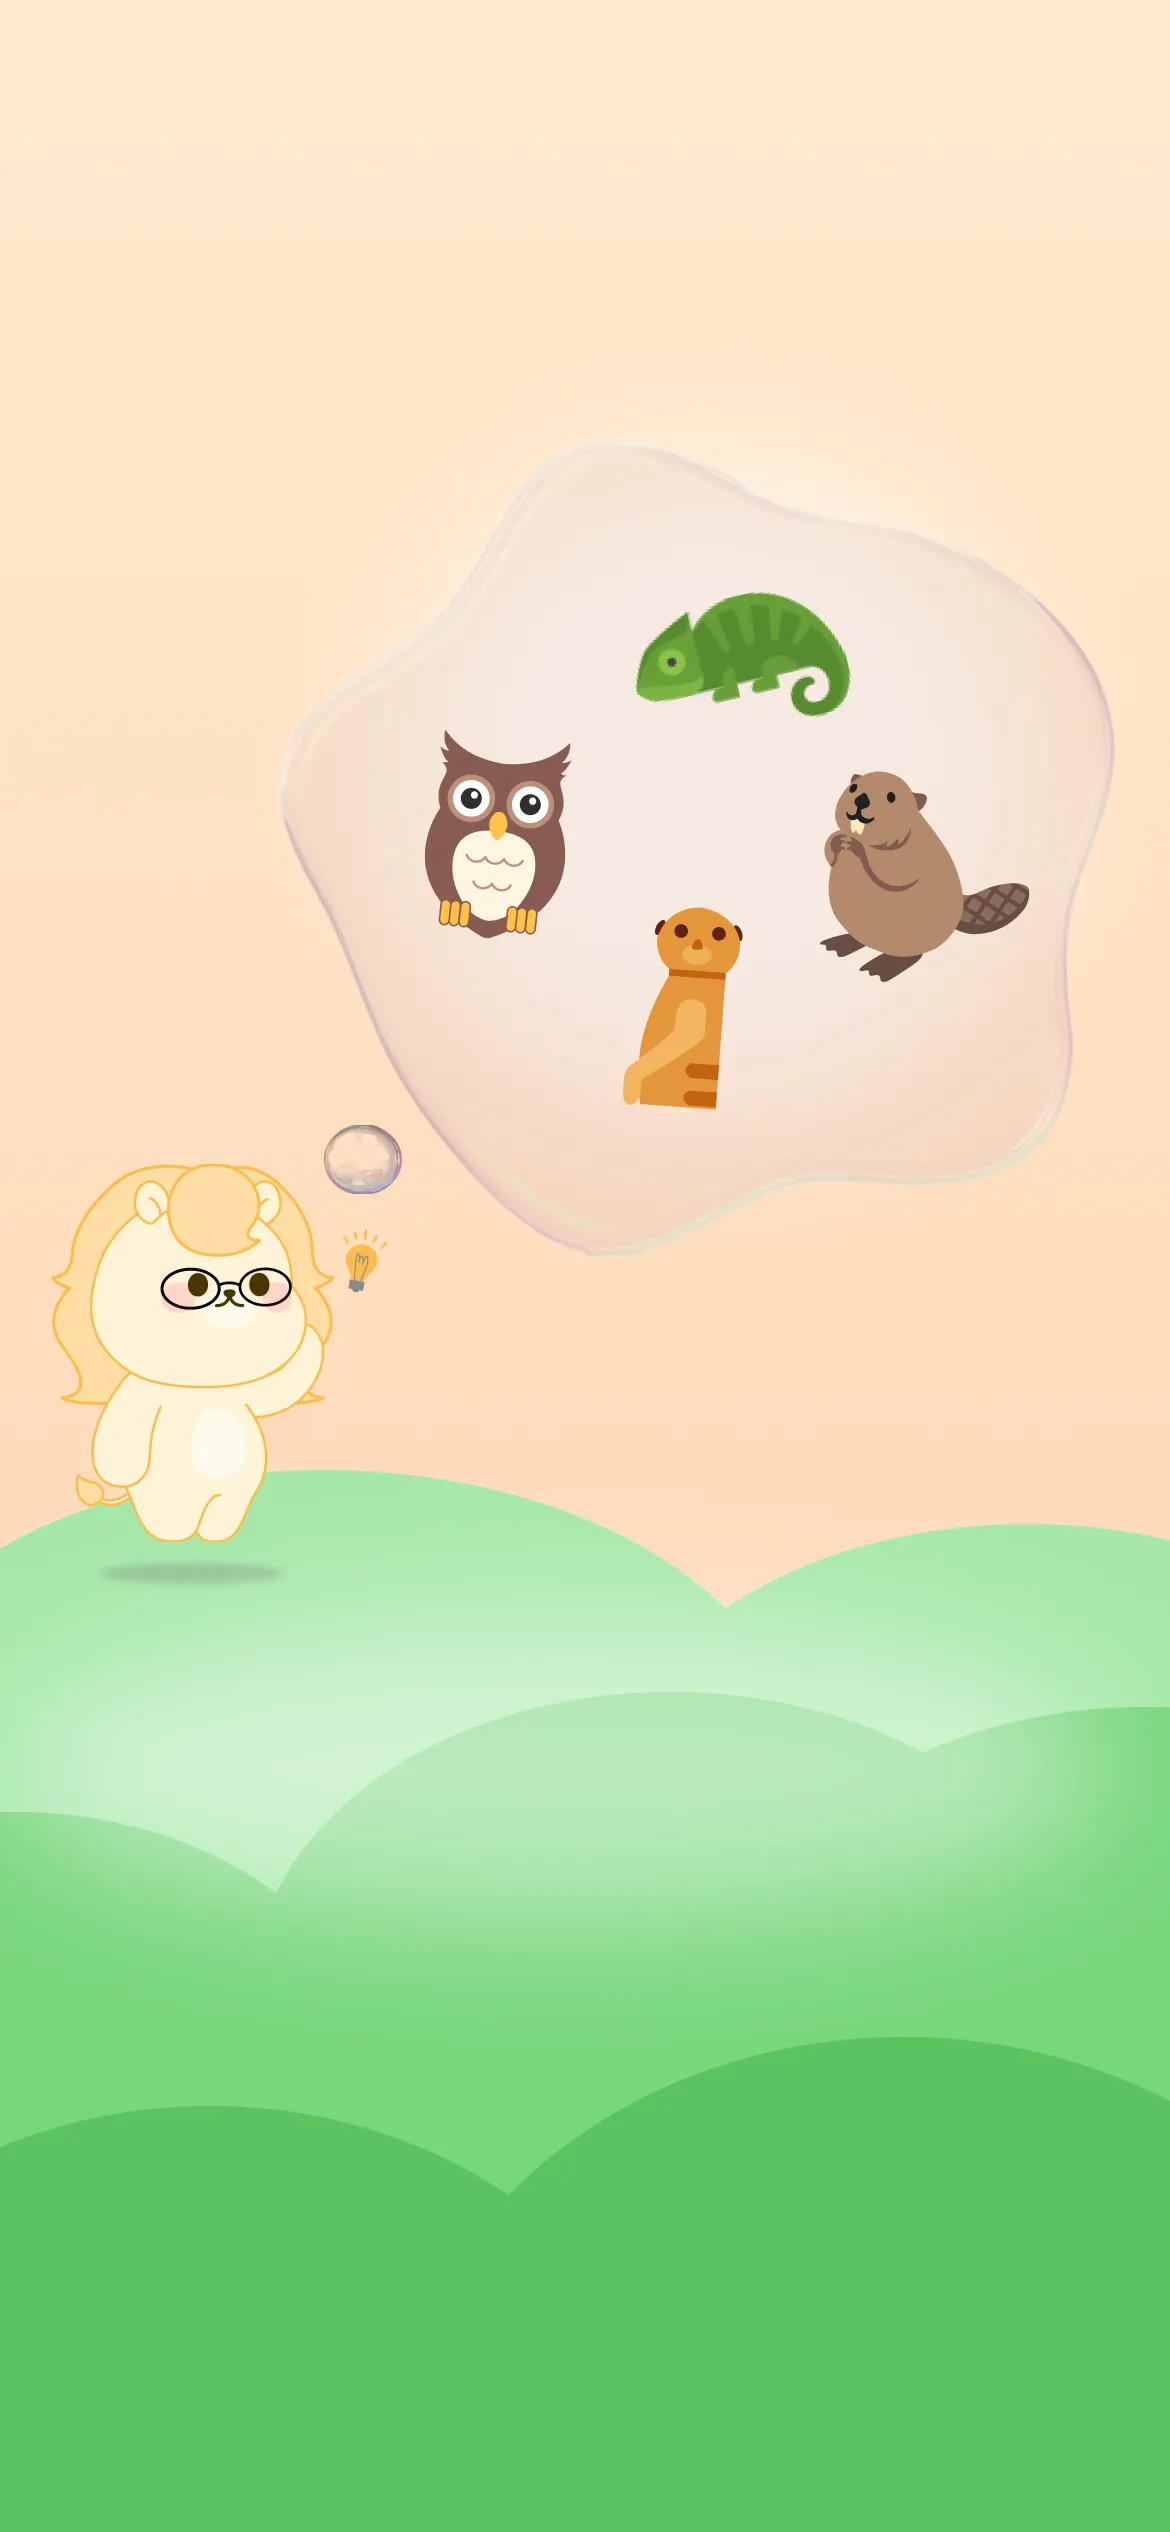
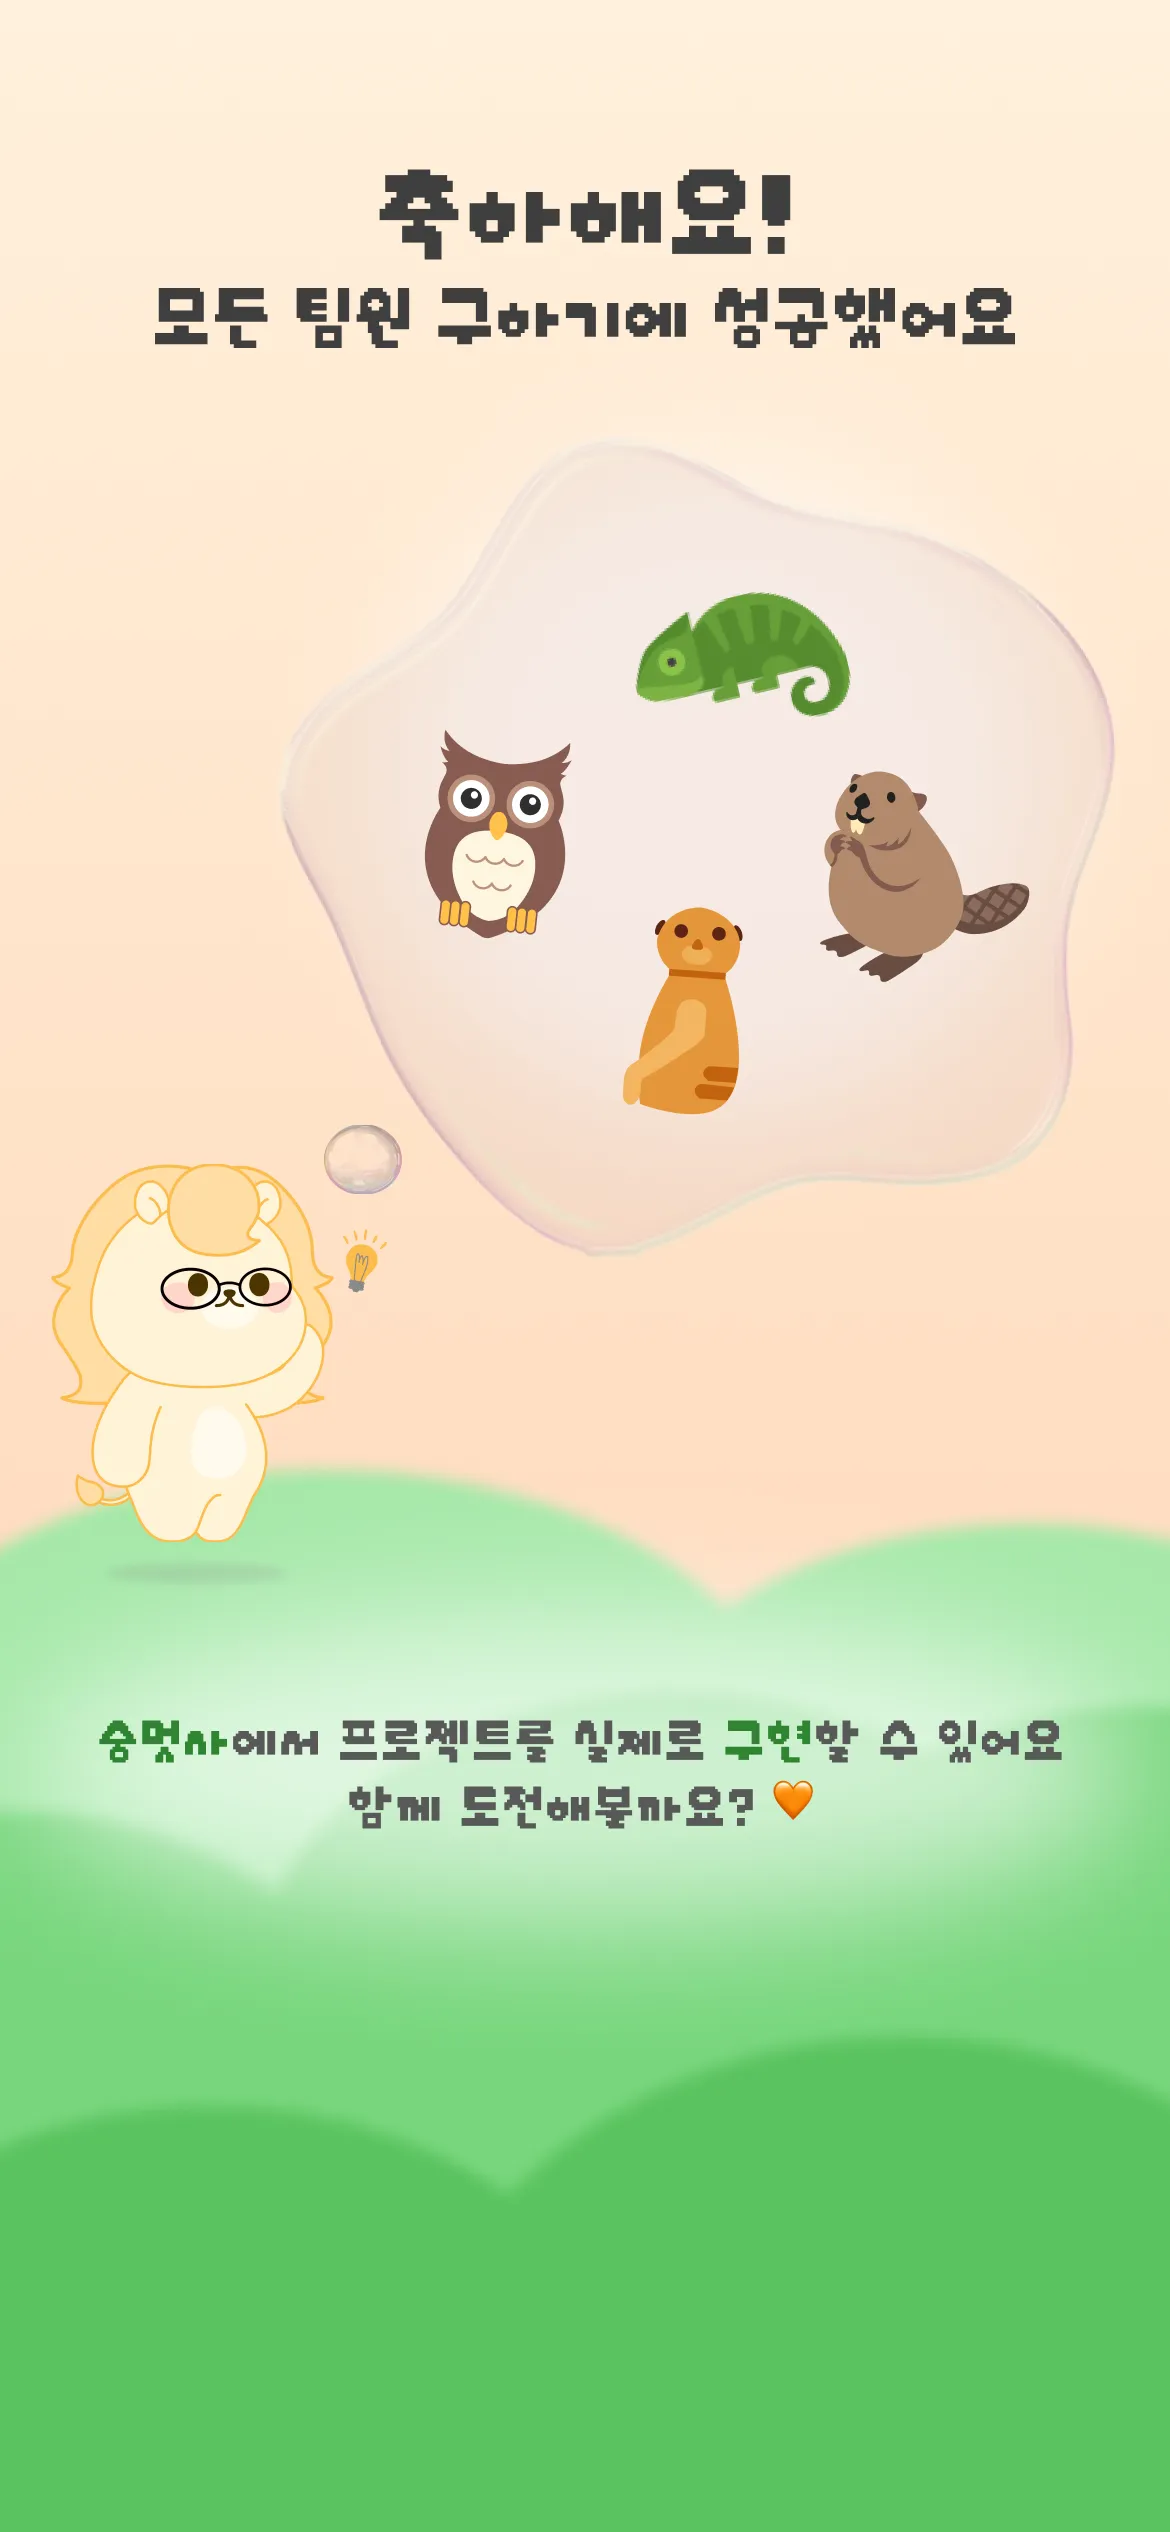
성공 모달 배경 수정, 모달 간격 수정

diff --git a/src/components/games/FinalPage.tsx b/src/components/games/FinalPage.tsx
@@ -7,30 +7,25 @@ function FinalPage() {
   }, []);
 
   return (
-    <div className="w-full min-h-screen bg-[url('/src/assets/img/lastBackground.webp')] bg-[length:100%_100%] flex flex-col items-center overflow-y-auto">
-      <p className="mt-12 text-3xl font-semibold">축하해요!</p>
-      <p className="text-xl font-semibold">모든 팀원 구하기에 성공했어요</p>
-
-      <p className="text-base font-semibold leading-7 mt-90">
-        숭멋사에서 프로젝트를 실제로 구현할 수 있어요
-        <br /> 함께 도전해볼까요?🧡
-      </p>
-      <a
-        className="mt-15 w-[90%] h-11 bg-white flex justify-center items-center relative rounded-3xl"
-        href="https://docs.google.com/forms/d/e/1FAIpQLSeNx3dRjVz4PpOWAVA8Cmdy6aHtkFqV886ZGx_ZWF2HlLRJsw/viewform"
-      >
-        <span className="text-base font-semibold">지원하러 가기</span>
-        <img className="w-5 h-5 absolute left-[90%]" src={arrow} alt="꺽쇠" />
-      </a>
-      <a
-        className="my-3 w-[90%] h-11 bg-white flex justify-center items-center relative rounded-3xl"
-        href="https://www.likelionssu.kr/"
-      >
-        <span className="text-base font-semibold">
-          숭멋사 공식 홈페이지 구경하기
-        </span>
-        <img className="w-5 h-5 absolute left-[90%]" src={arrow} alt="꺽쇠" />
-      </a>
+    <div className="w-full min-h-[844px] bg-[url('/src/assets/img/lastBackground.webp')] bg-[length:100%_100%] flex flex-col items-center overflow-y-auto relative">
+      <div className="absolute top-[72%] w-full flex flex-col items-center">
+        <a
+          className="mt-15 w-[90%] h-11 bg-white flex justify-center items-center relative rounded-3xl"
+          href="https://docs.google.com/forms/d/e/1FAIpQLSeNx3dRjVz4PpOWAVA8Cmdy6aHtkFqV886ZGx_ZWF2HlLRJsw/viewform"
+        >
+          <span className="text-base font-semibold">지원하러 가기</span>
+          <img className="w-5 h-5 absolute left-[90%]" src={arrow} alt="꺽쇠" />
+        </a>
+        <a
+          className="my-3 w-[90%] h-11 bg-white flex justify-center items-center relative rounded-3xl"
+          href="https://www.likelionssu.kr/"
+        >
+          <span className="text-base font-semibold">
+            숭멋사 공식 홈페이지 구경하기
+          </span>
+          <img className="w-5 h-5 absolute left-[90%]" src={arrow} alt="꺽쇠" />
+        </a>
+      </div>
     </div>
   );
 }

diff --git a/src/components/UI/StartModal.tsx b/src/components/UI/StartModal.tsx
@@ -123,7 +123,7 @@ function StartModal({ open, onClose, stage }: modalProps) {
           <div
             className={`absolute top-36 left-0 w-full ${DUMMY_STAGE[stage].bg_class} h-64 rounded-4xl flex flex-col items-center z-0`}
           >
-            <div className="mt-9 flex gap-3 justify-center items-center">
+            <div className="mt-9 px-2 flex justify-between items-center">
               <div className="text-center text-black text-sm font-semibold leading-relaxed">
                 {DUMMY_STAGE[stage].underText.map(
                   (line: string, index: number) => (

diff --git a/src/components/games/DistinguishingGrowl.tsx b/src/components/games/DistinguishingGrowl.tsx
@@ -86,7 +86,7 @@ function DistinguishingGrowl() {
 
   return (
     <>
-      <div className="w-full min-h-screen flex flex-col bg-[url('/src/assets/img/step4_BG.webp')] bg-cover items-center overflow-auto scroll-smooth">
+      <div className="w-full min-h-[844px] flex flex-col bg-[url('/src/assets/img/step4_BG.webp')] bg-cover items-center overflow-auto scroll-smooth">
         <div className="w-full flex flex-col items-center">
           <div className="w-[90%] flex justify-start mb-5 mt-4">
             <img className="w-8 h-8" src={chameleonImg} alt="카멜레온" />
